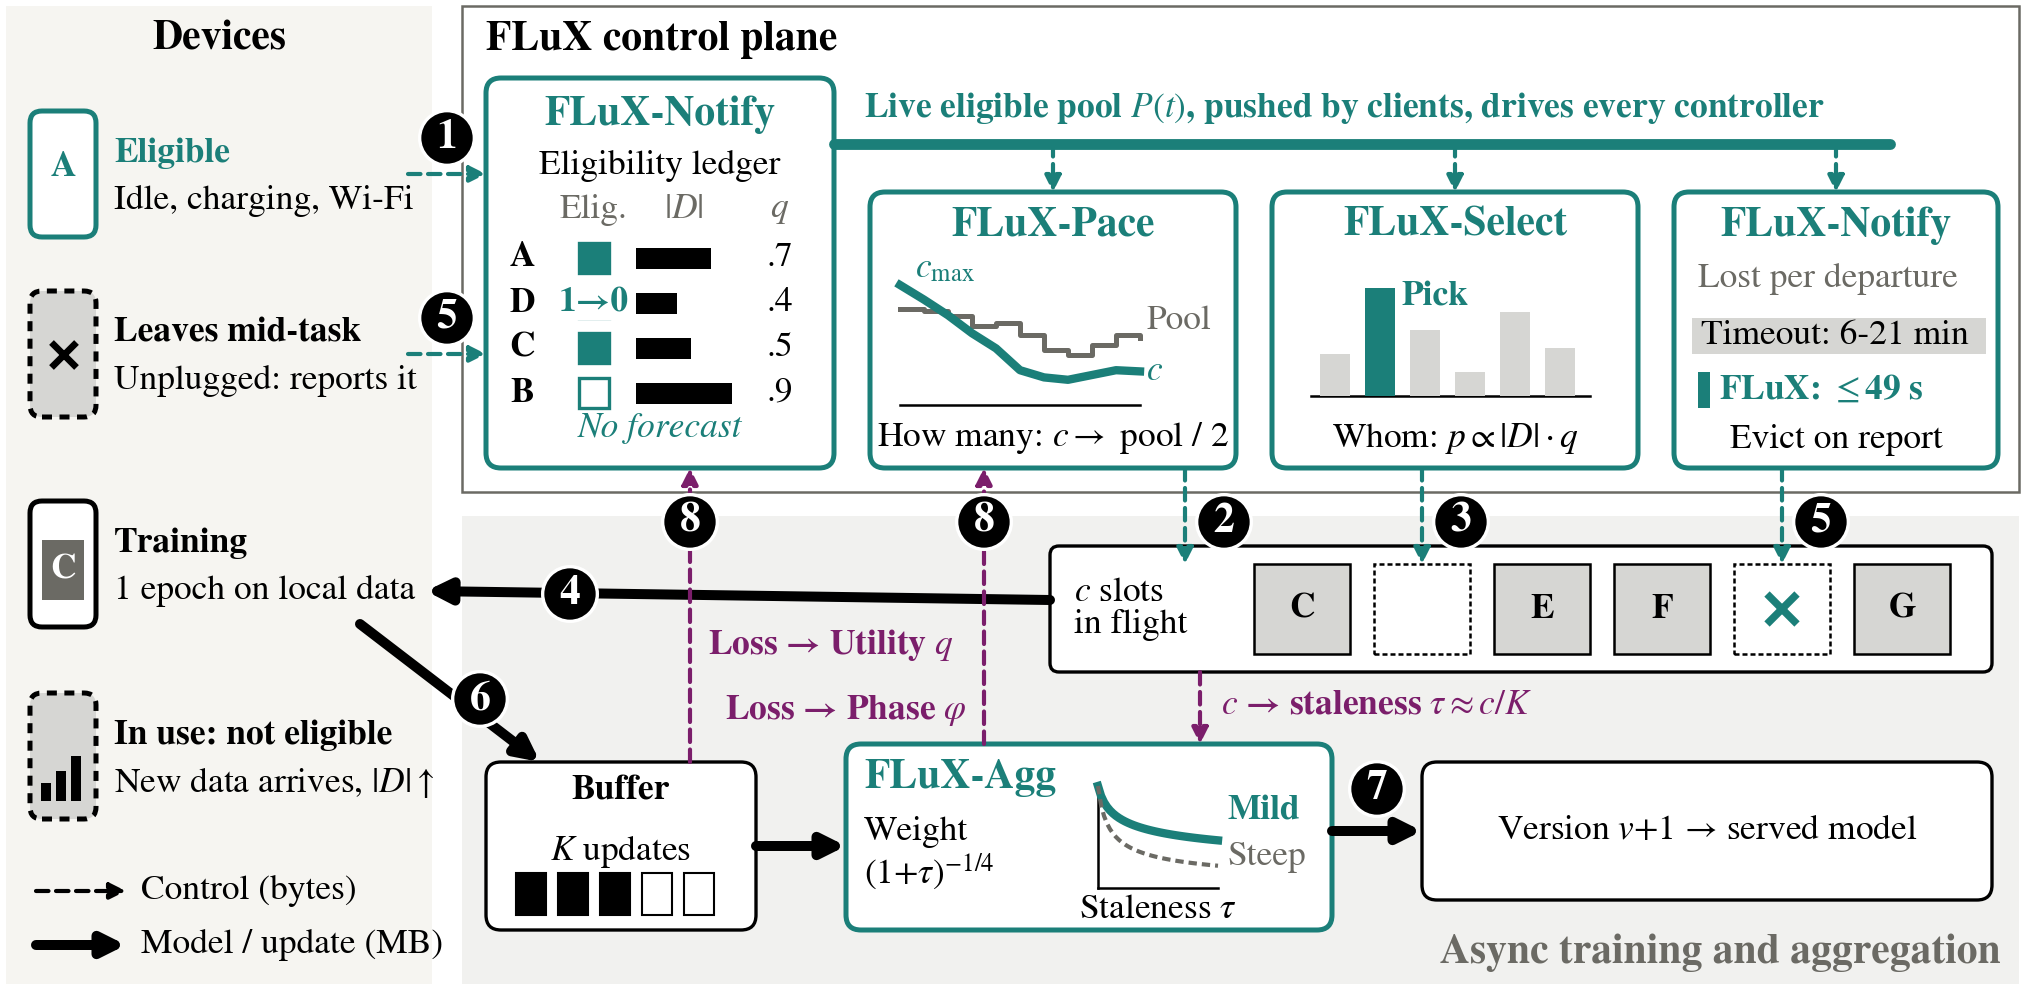
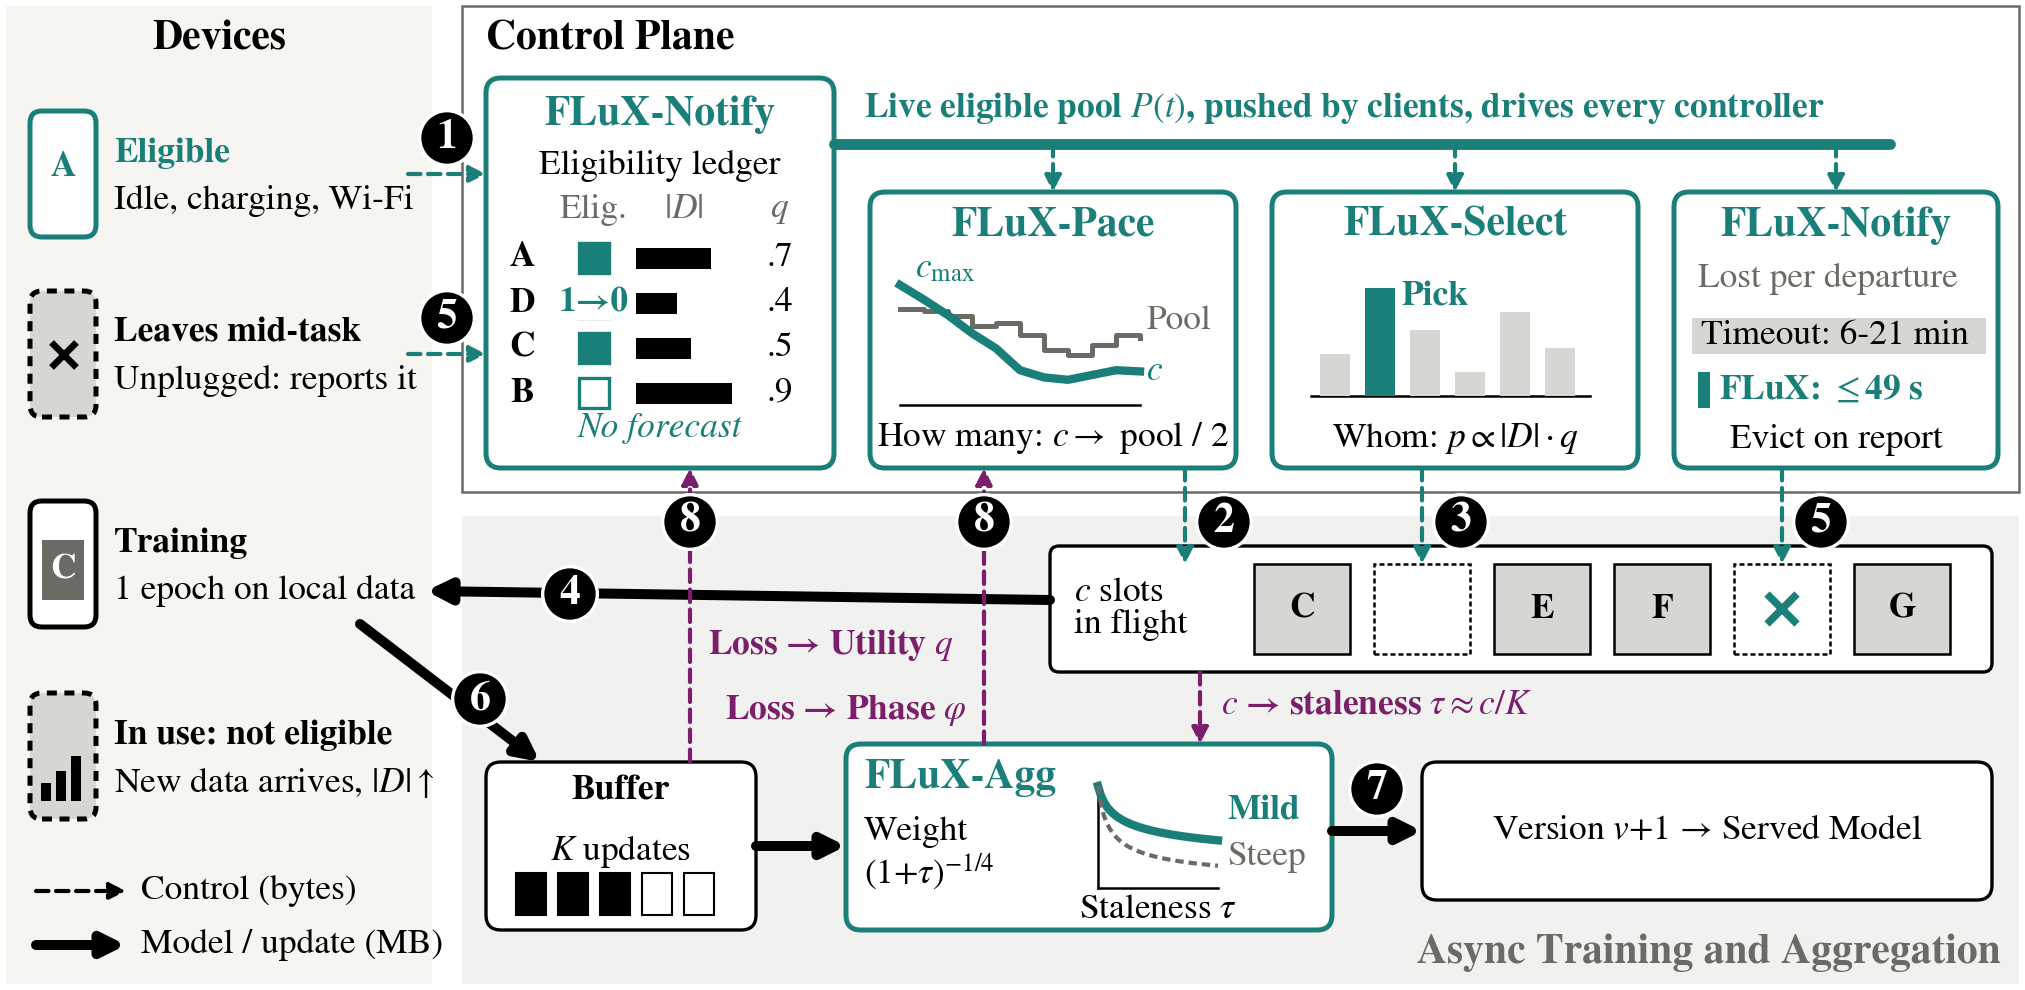
nit

Changed region(s): [[0.6844, 0.9394, 0.9022, 1.0], [0.2489, 0.0, 0.4356, 0.0606], [0.7156, 0.8182, 0.9644, 0.8485]]

diff --git a/lib/python/examples/paper_felix/sec4_overview.py b/lib/python/examples/paper_felix/sec4_overview.py
@@ -65,8 +65,8 @@ def fig_architecture():
     ax.add_patch(Rectangle((1.54, 1.66), W - 1.56, H - 1.68, fc="white", ec=MUTEDK, lw=0.6, zorder=0))
     ax.add_patch(Rectangle((1.54, 0.02), W - 1.56, 1.56, fc=ENGINE, ec="none", zorder=0))
     ax.text(0.73, H - 0.07, "Devices", ha="center", va="top", fontsize=TT, weight="bold")
-    ax.text(1.62, H - 0.07, f"{S} control plane", ha="left", va="top", fontsize=TT, weight="bold")
-    ax.text(W - 0.08, 0.06, "Async training and aggregation", ha="right", va="bottom", fontsize=TT, weight="bold", color=MUTEDK)
+    ax.text(1.62, H - 0.07, "Control Plane", ha="left", va="top", fontsize=TT, weight="bold")
+    ax.text(W - 0.08, 0.06, "Async Training and Aggregation", ha="right", va="bottom", fontsize=TT, weight="bold", color=MUTEDK)
 
     # devices: four states, each a phone + state + why
     dev = {"A": 2.72, "D": 2.12, "C": 1.42, "B": 0.78}
@@ -188,7 +188,7 @@ def fig_architecture():
     ax.text(gx + gw + 0.03, gy + gh * 0.3, "Steep", ha="left", va="center", fontsize=F, color=MUTEDK)
     ax.text(gx + gw / 2, gy - 0.02, "Staleness $\\tau$", ha="center", va="top", fontsize=F)
     _rbox(ax, 4.74, 0.3, 1.9, 0.46, ec=INK, fc="white", lw=0.8)
-    ax.text(5.69, 0.53, "Version $v{+}1$ → served model", ha="center", va="center", fontsize=F)
+    ax.text(5.69, 0.53, "Version $v{+}1$ → Served Model", ha="center", va="center", fontsize=F)
     _flow(ax, (2.52, 0.48), (2.82, 0.48), "data")
     _flow(ax, (4.44, 0.53), (4.74, 0.53), "data")
 
